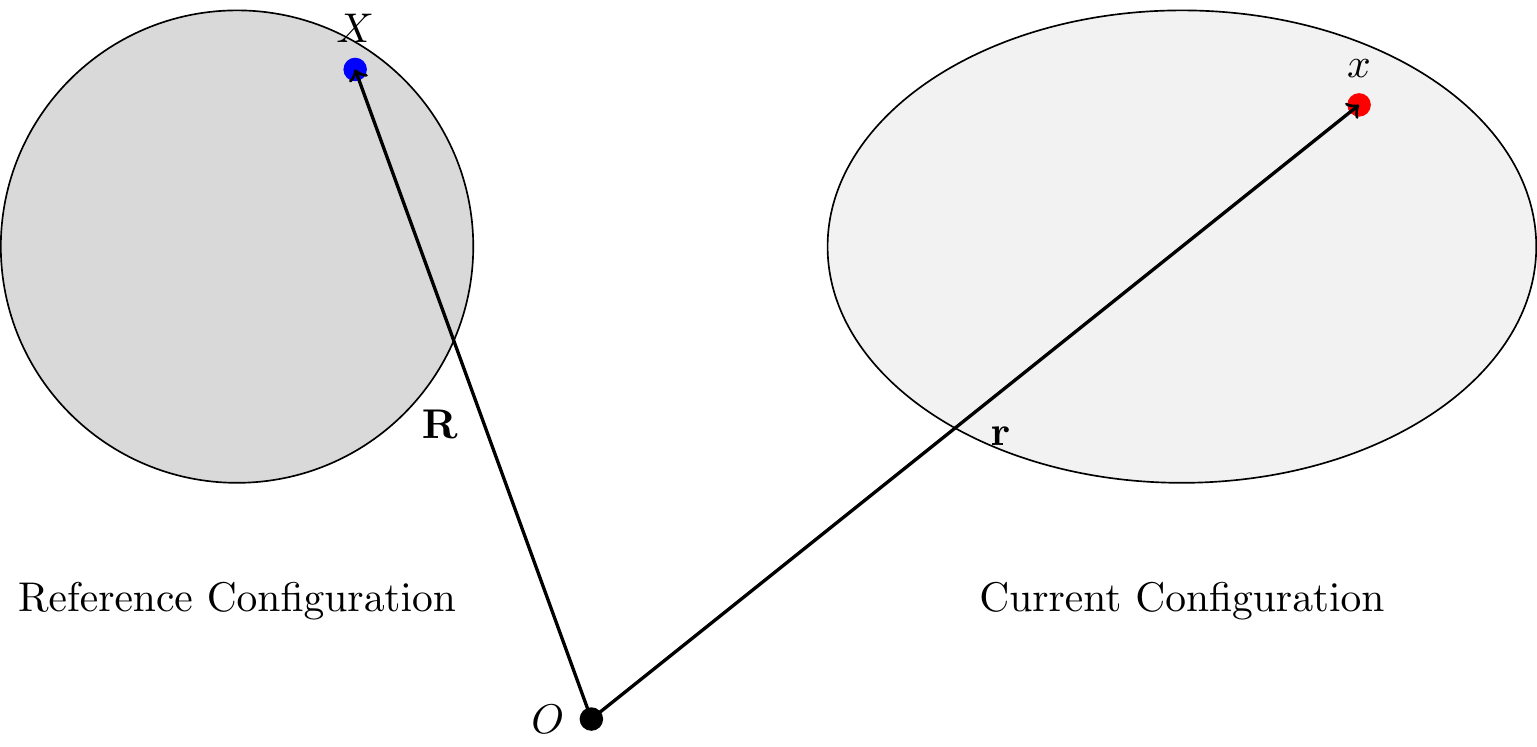
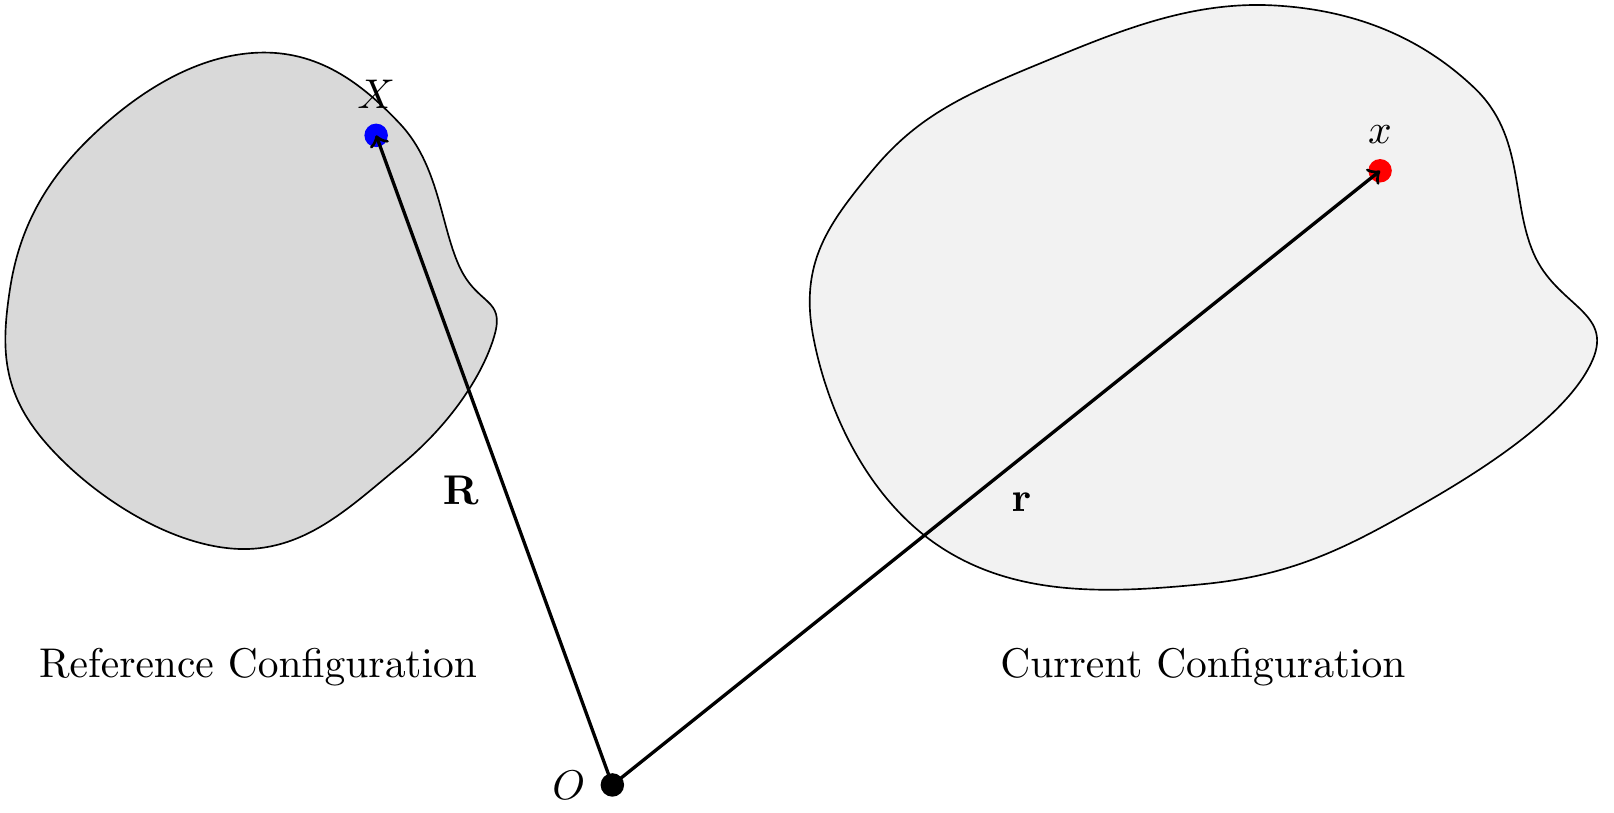
Built site for gh-pages

diff --git a/preliminaries/continuum_mechanics_perspective.html b/preliminaries/continuum_mechanics_perspective.html
@@ -9,7 +9,7 @@
 <meta name="author" content="Theresa Honein">
 <meta name="dcterms.date" content="2026-01-01">
 
-<title>6&nbsp; Starting from Continuum Mechanics</title>
+<title>6&nbsp; A Continuum Mechanics Perspective</title>
 <style>
 /* Default styles provided by pandoc.
 ** See https://pandoc.org/MANUAL.html#variables-for-html for config info.
@@ -136,7 +136,7 @@ window.Quarto = {
       <button type="button" class="quarto-btn-toggle btn" data-bs-toggle="collapse" role="button" data-bs-target=".quarto-sidebar-collapse-item" aria-controls="quarto-sidebar" aria-expanded="false" aria-label="Toggle sidebar navigation" onclick="if (window.quartoToggleHeadroom) { window.quartoToggleHeadroom(); }">
         <i class="bi bi-layout-text-sidebar-reverse"></i>
       </button>
-        <nav class="quarto-page-breadcrumbs" aria-label="breadcrumb"><ol class="breadcrumb"><li class="breadcrumb-item"><a href="../preliminaries/active_learning.html">Preliminaries</a></li><li class="breadcrumb-item"><a href="../preliminaries/continuum_mechanics_perspective.html"><span class="chapter-number">6</span>&nbsp; <span class="chapter-title">Starting from Continuum Mechanics</span></a></li></ol></nav>
+        <nav class="quarto-page-breadcrumbs" aria-label="breadcrumb"><ol class="breadcrumb"><li class="breadcrumb-item"><a href="../preliminaries/active_learning.html">Preliminaries</a></li><li class="breadcrumb-item"><a href="../preliminaries/continuum_mechanics_perspective.html"><span class="chapter-number">6</span>&nbsp; <span class="chapter-title">A Continuum Mechanics Perspective</span></a></li></ol></nav>
         <a class="flex-grow-1" role="navigation" data-bs-toggle="collapse" data-bs-target=".quarto-sidebar-collapse-item" aria-controls="quarto-sidebar" aria-expanded="false" aria-label="Toggle sidebar navigation" onclick="if (window.quartoToggleHeadroom) { window.quartoToggleHeadroom(); }">      
         </a>
       <button type="button" class="btn quarto-search-button" aria-label="Search" onclick="window.quartoOpenSearch();">
@@ -204,7 +204,7 @@ window.Quarto = {
           <li class="sidebar-item">
   <div class="sidebar-item-container"> 
   <a href="../preliminaries/continuum_mechanics_perspective.html" class="sidebar-item-text sidebar-link active">
- <span class="menu-text"><span class="chapter-number">6</span>&nbsp; <span class="chapter-title">Starting from Continuum Mechanics</span></span></a>
+ <span class="menu-text"><span class="chapter-number">6</span>&nbsp; <span class="chapter-title">A Continuum Mechanics Perspective</span></span></a>
   </div>
 </li>
       </ul>
@@ -384,9 +384,9 @@ window.Quarto = {
 <!-- main -->
 <main class="content" id="quarto-document-content">
 
-<header id="title-block-header" class="quarto-title-block default"><nav class="quarto-page-breadcrumbs quarto-title-breadcrumbs d-none d-lg-block" aria-label="breadcrumb"><ol class="breadcrumb"><li class="breadcrumb-item"><a href="../preliminaries/active_learning.html">Preliminaries</a></li><li class="breadcrumb-item"><a href="../preliminaries/continuum_mechanics_perspective.html"><span class="chapter-number">6</span>&nbsp; <span class="chapter-title">Starting from Continuum Mechanics</span></a></li></ol></nav>
+<header id="title-block-header" class="quarto-title-block default"><nav class="quarto-page-breadcrumbs quarto-title-breadcrumbs d-none d-lg-block" aria-label="breadcrumb"><ol class="breadcrumb"><li class="breadcrumb-item"><a href="../preliminaries/active_learning.html">Preliminaries</a></li><li class="breadcrumb-item"><a href="../preliminaries/continuum_mechanics_perspective.html"><span class="chapter-number">6</span>&nbsp; <span class="chapter-title">A Continuum Mechanics Perspective</span></a></li></ol></nav>
 <div class="quarto-title">
-<h1 class="title"><span class="chapter-number">6</span>&nbsp; <span class="chapter-title">Starting from Continuum Mechanics</span></h1>
+<h1 class="title"><span class="chapter-number">6</span>&nbsp; <span class="chapter-title">A Continuum Mechanics Perspective</span></h1>
 </div>
 
 

diff --git a/particle_dynamics/basic_particle_kinematics.html b/particle_dynamics/basic_particle_kinematics.html
@@ -204,7 +204,7 @@ window.Quarto = {
           <li class="sidebar-item">
   <div class="sidebar-item-container"> 
   <a href="../preliminaries/continuum_mechanics_perspective.html" class="sidebar-item-text sidebar-link">
- <span class="menu-text"><span class="chapter-number">6</span>&nbsp; <span class="chapter-title">Starting from Continuum Mechanics</span></span></a>
+ <span class="menu-text"><span class="chapter-number">6</span>&nbsp; <span class="chapter-title">A Continuum Mechanics Perspective</span></span></a>
   </div>
 </li>
       </ul>
@@ -1184,8 +1184,8 @@ window.Quarto = {
   </script>
 <nav class="page-navigation">
   <div class="nav-page nav-page-previous">
-      <a href="../preliminaries/continuum_mechanics_perspective.html" class="pagination-link" aria-label="Starting from Continuum Mechanics">
-        <i class="bi bi-arrow-left-short"></i> <span class="nav-page-text"><span class="chapter-number">6</span>&nbsp; <span class="chapter-title">Starting from Continuum Mechanics</span></span>
+      <a href="../preliminaries/continuum_mechanics_perspective.html" class="pagination-link" aria-label="A Continuum Mechanics Perspective">
+        <i class="bi bi-arrow-left-short"></i> <span class="nav-page-text"><span class="chapter-number">6</span>&nbsp; <span class="chapter-title">A Continuum Mechanics Perspective</span></span>
       </a>          
   </div>
   <div class="nav-page nav-page-next">

diff --git a/preliminaries/fundamental_concepts_of_solid_mechanics.html b/preliminaries/fundamental_concepts_of_solid_mechanics.html
@@ -223,7 +223,7 @@ window.Quarto = {
           <li class="sidebar-item">
   <div class="sidebar-item-container"> 
   <a href="../preliminaries/continuum_mechanics_perspective.html" class="sidebar-item-text sidebar-link">
- <span class="menu-text"><span class="chapter-number">6</span>&nbsp; <span class="chapter-title">Starting from Continuum Mechanics</span></span></a>
+ <span class="menu-text"><span class="chapter-number">6</span>&nbsp; <span class="chapter-title">A Continuum Mechanics Perspective</span></span></a>
   </div>
 </li>
       </ul>
@@ -952,8 +952,8 @@ Lubliner, Jacob, and Panayiotis Papadopoulos. 2017. <em>Introduction to Solid Me
       </a>          
   </div>
   <div class="nav-page nav-page-next">
-      <a href="../preliminaries/continuum_mechanics_perspective.html" class="pagination-link" aria-label="Starting from Continuum Mechanics">
-        <span class="nav-page-text"><span class="chapter-number">6</span>&nbsp; <span class="chapter-title">Starting from Continuum Mechanics</span></span> <i class="bi bi-arrow-right-short"></i>
+      <a href="../preliminaries/continuum_mechanics_perspective.html" class="pagination-link" aria-label="A Continuum Mechanics Perspective">
+        <span class="nav-page-text"><span class="chapter-number">6</span>&nbsp; <span class="chapter-title">A Continuum Mechanics Perspective</span></span> <i class="bi bi-arrow-right-short"></i>
       </a>
   </div>
 </nav>

diff --git a/appendices/conservative_forces.html b/appendices/conservative_forces.html
@@ -204,7 +204,7 @@ window.Quarto = {
           <li class="sidebar-item">
   <div class="sidebar-item-container"> 
   <a href="../preliminaries/continuum_mechanics_perspective.html" class="sidebar-item-text sidebar-link">
- <span class="menu-text"><span class="chapter-number">6</span>&nbsp; <span class="chapter-title">Starting from Continuum Mechanics</span></span></a>
+ <span class="menu-text"><span class="chapter-number">6</span>&nbsp; <span class="chapter-title">A Continuum Mechanics Perspective</span></span></a>
   </div>
 </li>
       </ul>

diff --git a/appendices/sets_linear_function_spaces.html b/appendices/sets_linear_function_spaces.html
@@ -203,7 +203,7 @@ window.Quarto = {
           <li class="sidebar-item">
   <div class="sidebar-item-container"> 
   <a href="../preliminaries/continuum_mechanics_perspective.html" class="sidebar-item-text sidebar-link">
- <span class="menu-text"><span class="chapter-number">6</span>&nbsp; <span class="chapter-title">Starting from Continuum Mechanics</span></span></a>
+ <span class="menu-text"><span class="chapter-number">6</span>&nbsp; <span class="chapter-title">A Continuum Mechanics Perspective</span></span></a>
   </div>
 </li>
       </ul>

diff --git a/index.html b/index.html
@@ -174,7 +174,7 @@ MathJax = {
           <li class="sidebar-item">
   <div class="sidebar-item-container"> 
   <a href="./preliminaries/continuum_mechanics_perspective.html" class="sidebar-item-text sidebar-link">
- <span class="menu-text"><span class="chapter-number">6</span>&nbsp; <span class="chapter-title">Starting from Continuum Mechanics</span></span></a>
+ <span class="menu-text"><span class="chapter-number">6</span>&nbsp; <span class="chapter-title">A Continuum Mechanics Perspective</span></span></a>
   </div>
 </li>
       </ul>

diff --git a/particle_dynamics/collisions.html b/particle_dynamics/collisions.html
@@ -204,7 +204,7 @@ window.Quarto = {
           <li class="sidebar-item">
   <div class="sidebar-item-container"> 
   <a href="../preliminaries/continuum_mechanics_perspective.html" class="sidebar-item-text sidebar-link">
- <span class="menu-text"><span class="chapter-number">6</span>&nbsp; <span class="chapter-title">Starting from Continuum Mechanics</span></span></a>
+ <span class="menu-text"><span class="chapter-number">6</span>&nbsp; <span class="chapter-title">A Continuum Mechanics Perspective</span></span></a>
   </div>
 </li>
       </ul>

diff --git a/particle_dynamics/constrained_motion.html b/particle_dynamics/constrained_motion.html
@@ -204,7 +204,7 @@ window.Quarto = {
           <li class="sidebar-item">
   <div class="sidebar-item-container"> 
   <a href="../preliminaries/continuum_mechanics_perspective.html" class="sidebar-item-text sidebar-link">
- <span class="menu-text"><span class="chapter-number">6</span>&nbsp; <span class="chapter-title">Starting from Continuum Mechanics</span></span></a>
+ <span class="menu-text"><span class="chapter-number">6</span>&nbsp; <span class="chapter-title">A Continuum Mechanics Perspective</span></span></a>
   </div>
 </li>
       </ul>

diff --git a/particle_dynamics/cylindrical_polar_coordinates.html b/particle_dynamics/cylindrical_polar_coordinates.html
@@ -204,7 +204,7 @@ window.Quarto = {
           <li class="sidebar-item">
   <div class="sidebar-item-container"> 
   <a href="../preliminaries/continuum_mechanics_perspective.html" class="sidebar-item-text sidebar-link">
- <span class="menu-text"><span class="chapter-number">6</span>&nbsp; <span class="chapter-title">Starting from Continuum Mechanics</span></span></a>
+ <span class="menu-text"><span class="chapter-number">6</span>&nbsp; <span class="chapter-title">A Continuum Mechanics Perspective</span></span></a>
   </div>
 </li>
       </ul>

diff --git a/particle_dynamics/four_steps_bolm.html b/particle_dynamics/four_steps_bolm.html
@@ -204,7 +204,7 @@ window.Quarto = {
           <li class="sidebar-item">
   <div class="sidebar-item-container"> 
   <a href="../preliminaries/continuum_mechanics_perspective.html" class="sidebar-item-text sidebar-link">
- <span class="menu-text"><span class="chapter-number">6</span>&nbsp; <span class="chapter-title">Starting from Continuum Mechanics</span></span></a>
+ <span class="menu-text"><span class="chapter-number">6</span>&nbsp; <span class="chapter-title">A Continuum Mechanics Perspective</span></span></a>
   </div>
 </li>
       </ul>

diff --git a/particle_dynamics/friction_force.html b/particle_dynamics/friction_force.html
@@ -204,7 +204,7 @@ window.Quarto = {
           <li class="sidebar-item">
   <div class="sidebar-item-container"> 
   <a href="../preliminaries/continuum_mechanics_perspective.html" class="sidebar-item-text sidebar-link">
- <span class="menu-text"><span class="chapter-number">6</span>&nbsp; <span class="chapter-title">Starting from Continuum Mechanics</span></span></a>
+ <span class="menu-text"><span class="chapter-number">6</span>&nbsp; <span class="chapter-title">A Continuum Mechanics Perspective</span></span></a>
   </div>
 </li>
       </ul>

diff --git a/particle_dynamics/gravitational_force_model.html b/particle_dynamics/gravitational_force_model.html
@@ -204,7 +204,7 @@ window.Quarto = {
           <li class="sidebar-item">
   <div class="sidebar-item-container"> 
   <a href="../preliminaries/continuum_mechanics_perspective.html" class="sidebar-item-text sidebar-link">
- <span class="menu-text"><span class="chapter-number">6</span>&nbsp; <span class="chapter-title">Starting from Continuum Mechanics</span></span></a>
+ <span class="menu-text"><span class="chapter-number">6</span>&nbsp; <span class="chapter-title">A Continuum Mechanics Perspective</span></span></a>
   </div>
 </li>
       </ul>